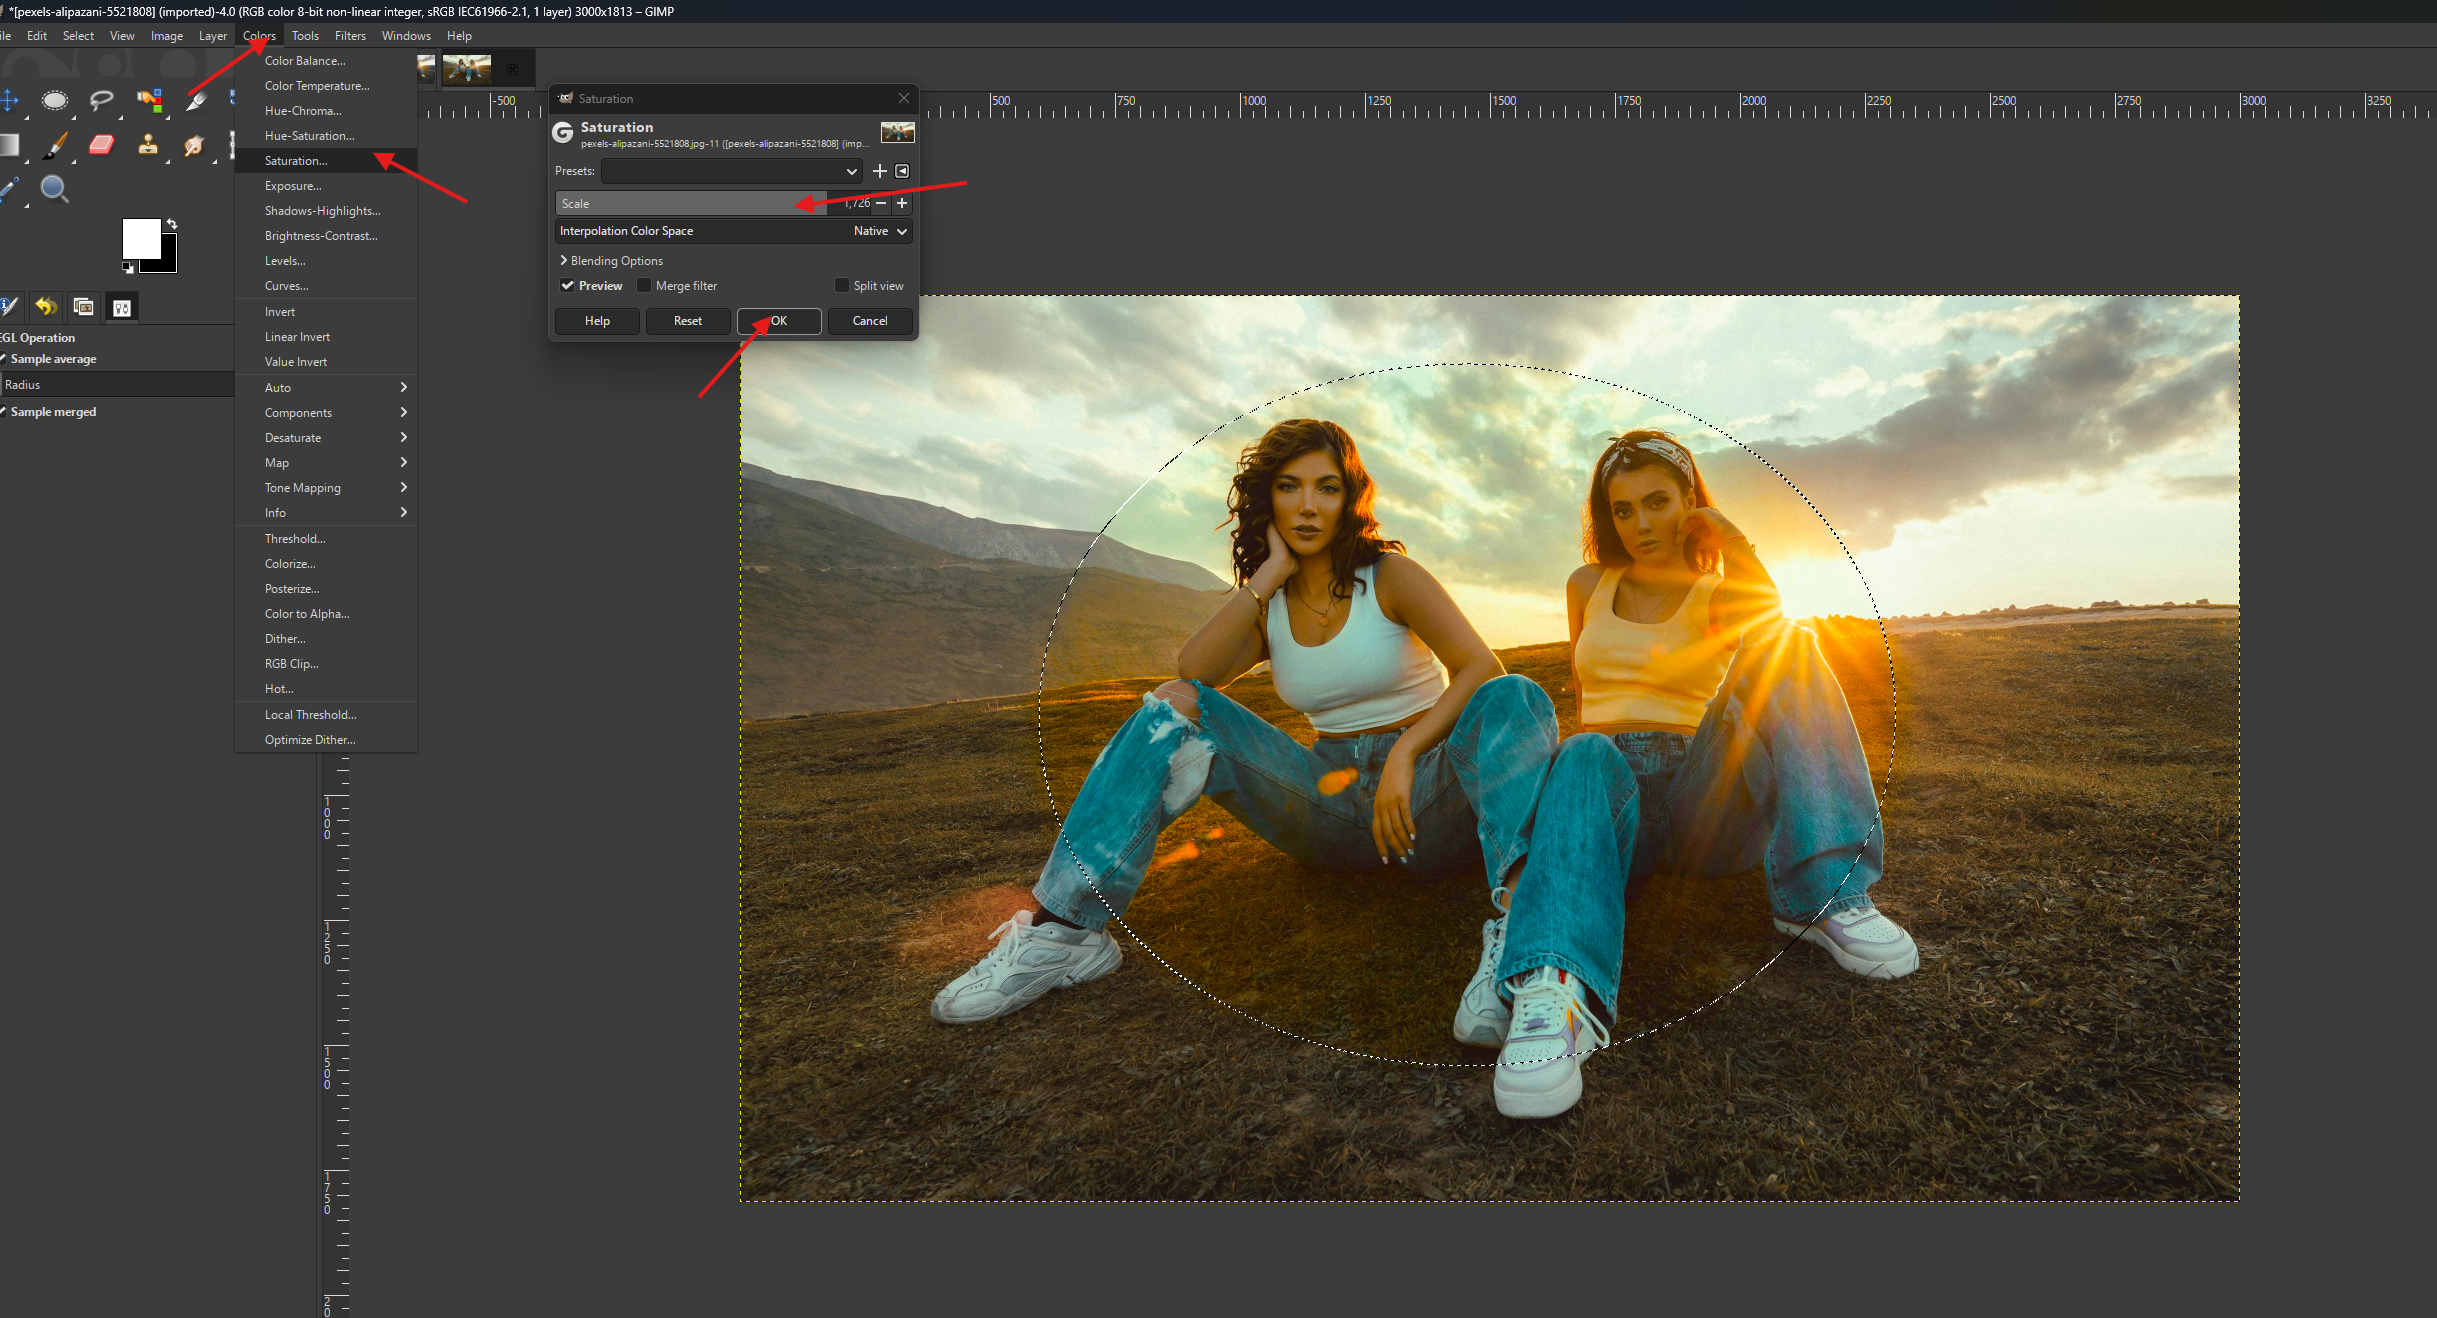
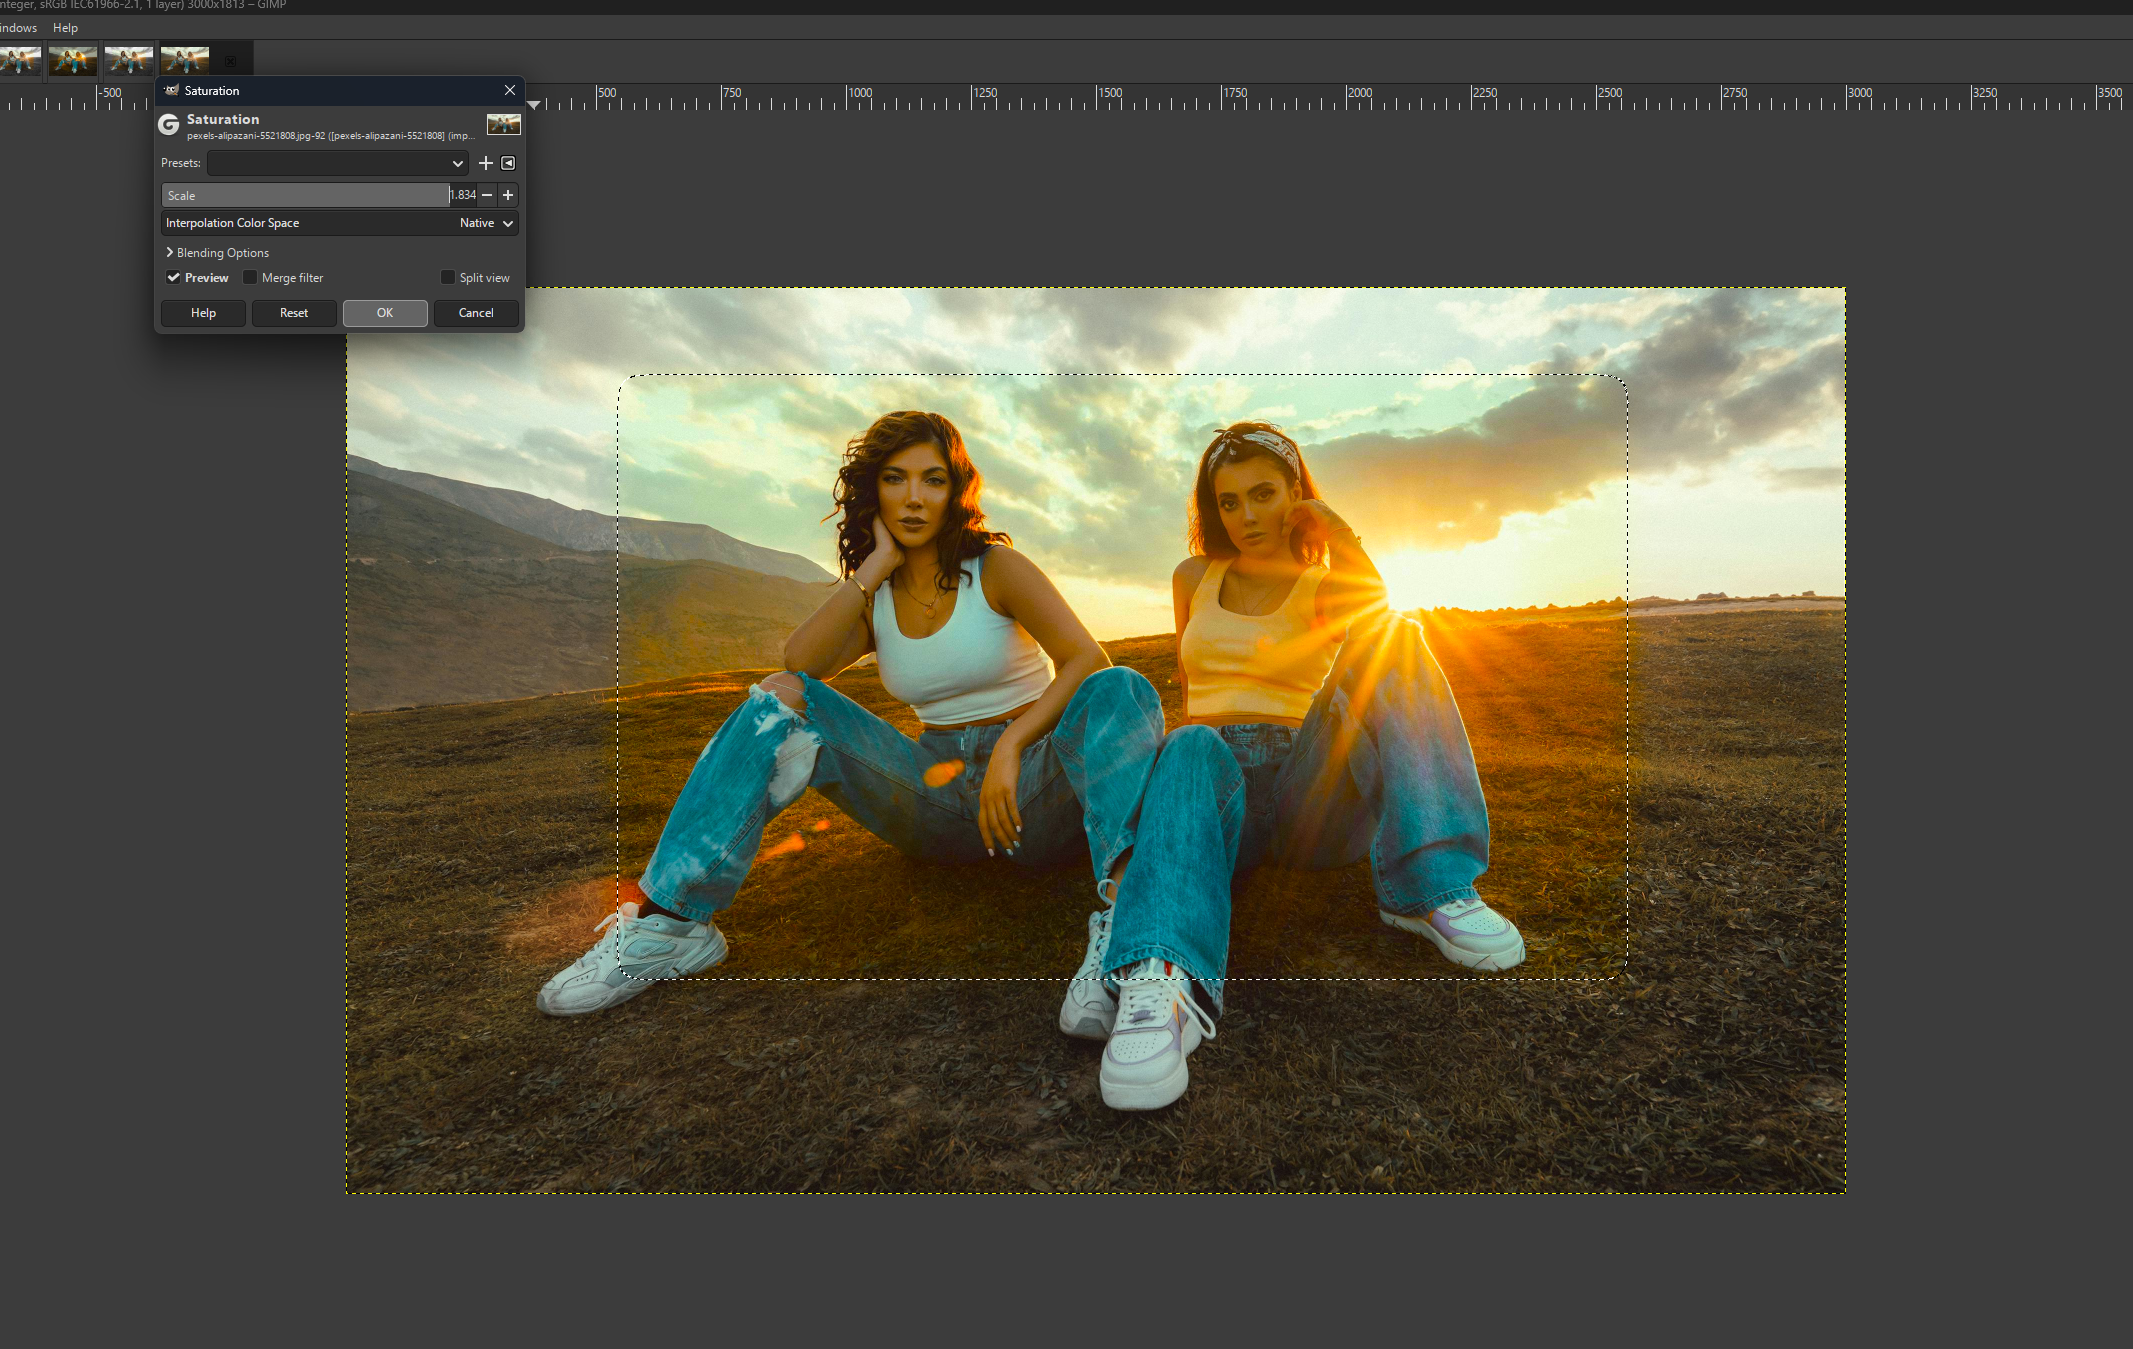
Update

diff --git a/learn.jankonrad.com/sections/section7-1-5.html b/learn.jankonrad.com/sections/section7-1-5.html
@@ -130,9 +130,8 @@
           <ol class="mb-3">
             <li>Otevři nový obrázek, a tím vytvoř novou kompozici. (Pracujeme se stejným obrázkem jako v úkolu 1)</li>
         <li>Vytvoř obdélníkový výběr → nastav <kbd>Feather Edges</kbd> na vyšší hodnotu tak, aby došlo k zaoblení rohů.</li>
-            <li>Zapni/vypni <strong>Quick Mask</strong> (ikona vlevo dole) → červený overlay = mimo výběr.</li>
-            <li>Vytvoř „měkký“ okraj: <strong>Select → Feather…</strong> (např. 100 px) → ostrý obdélník se zaoblí a hrana se zjemní.</li>
-            <li>V Quick Mask uvidíš plynulý přechod: čím víc červené, tím menší míra výběru.</li>
+            <li>Vyber ze záložek <kbd>Color</kbd> -> <strong>Saturation</strong> -> nastav vyšší hodnoty</li>
+            <li>Ulož kompozici jako 5-2</li>
           </ol>
 
           <div class="ratio ratio-16x9 mb-2">
